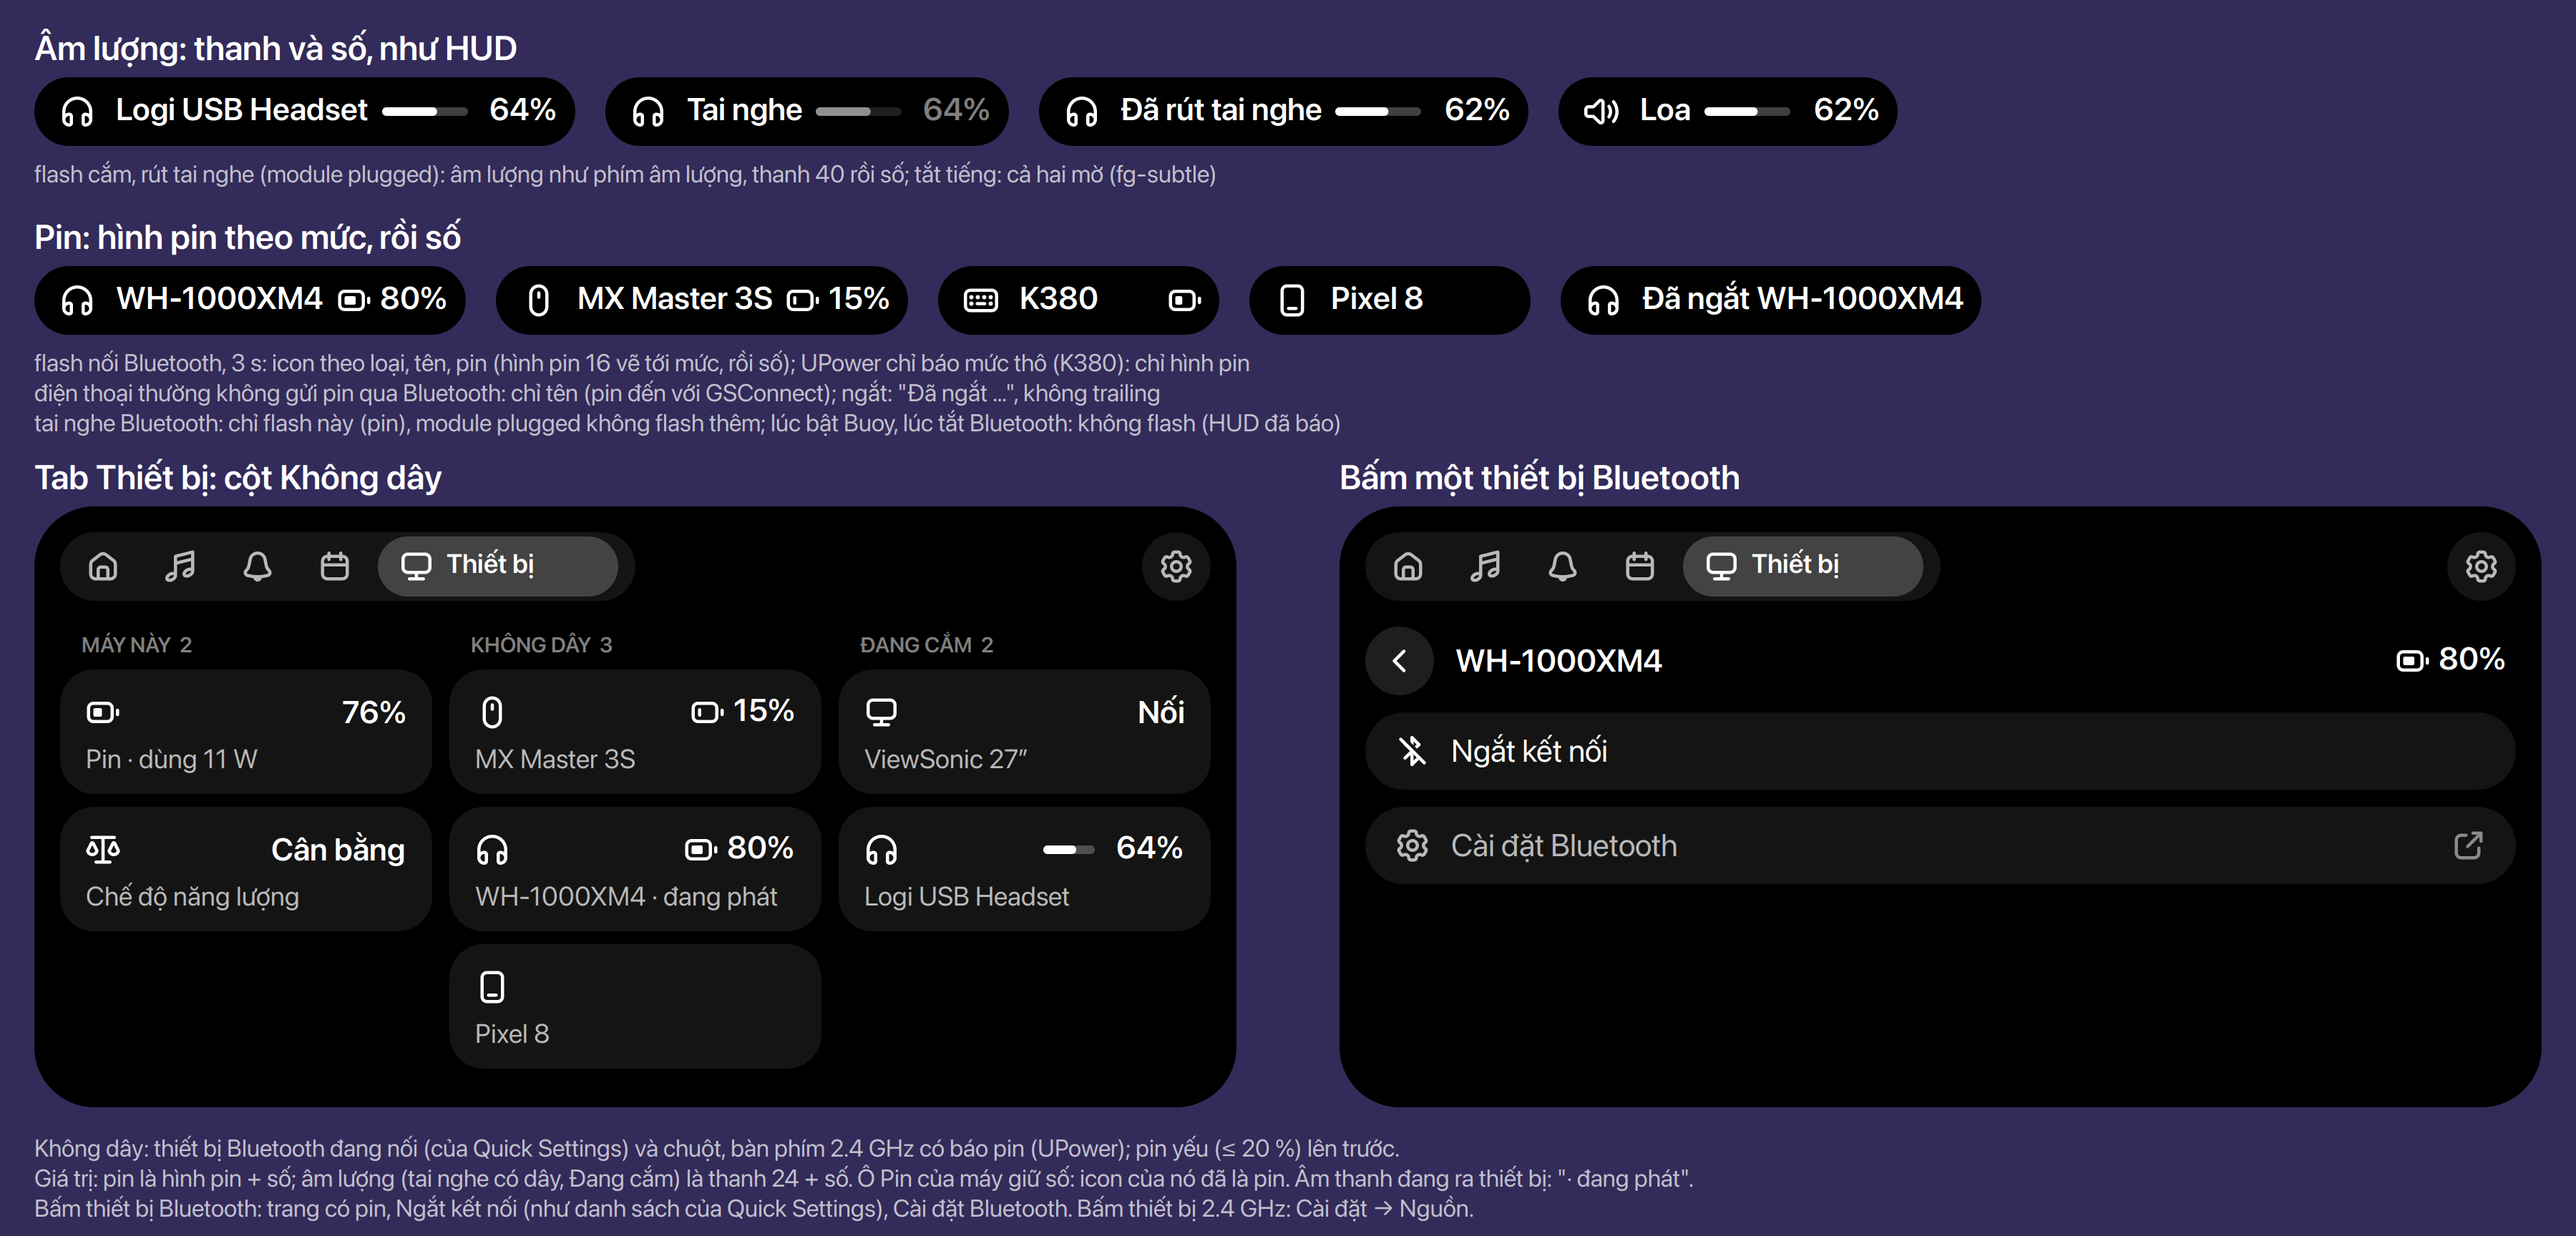
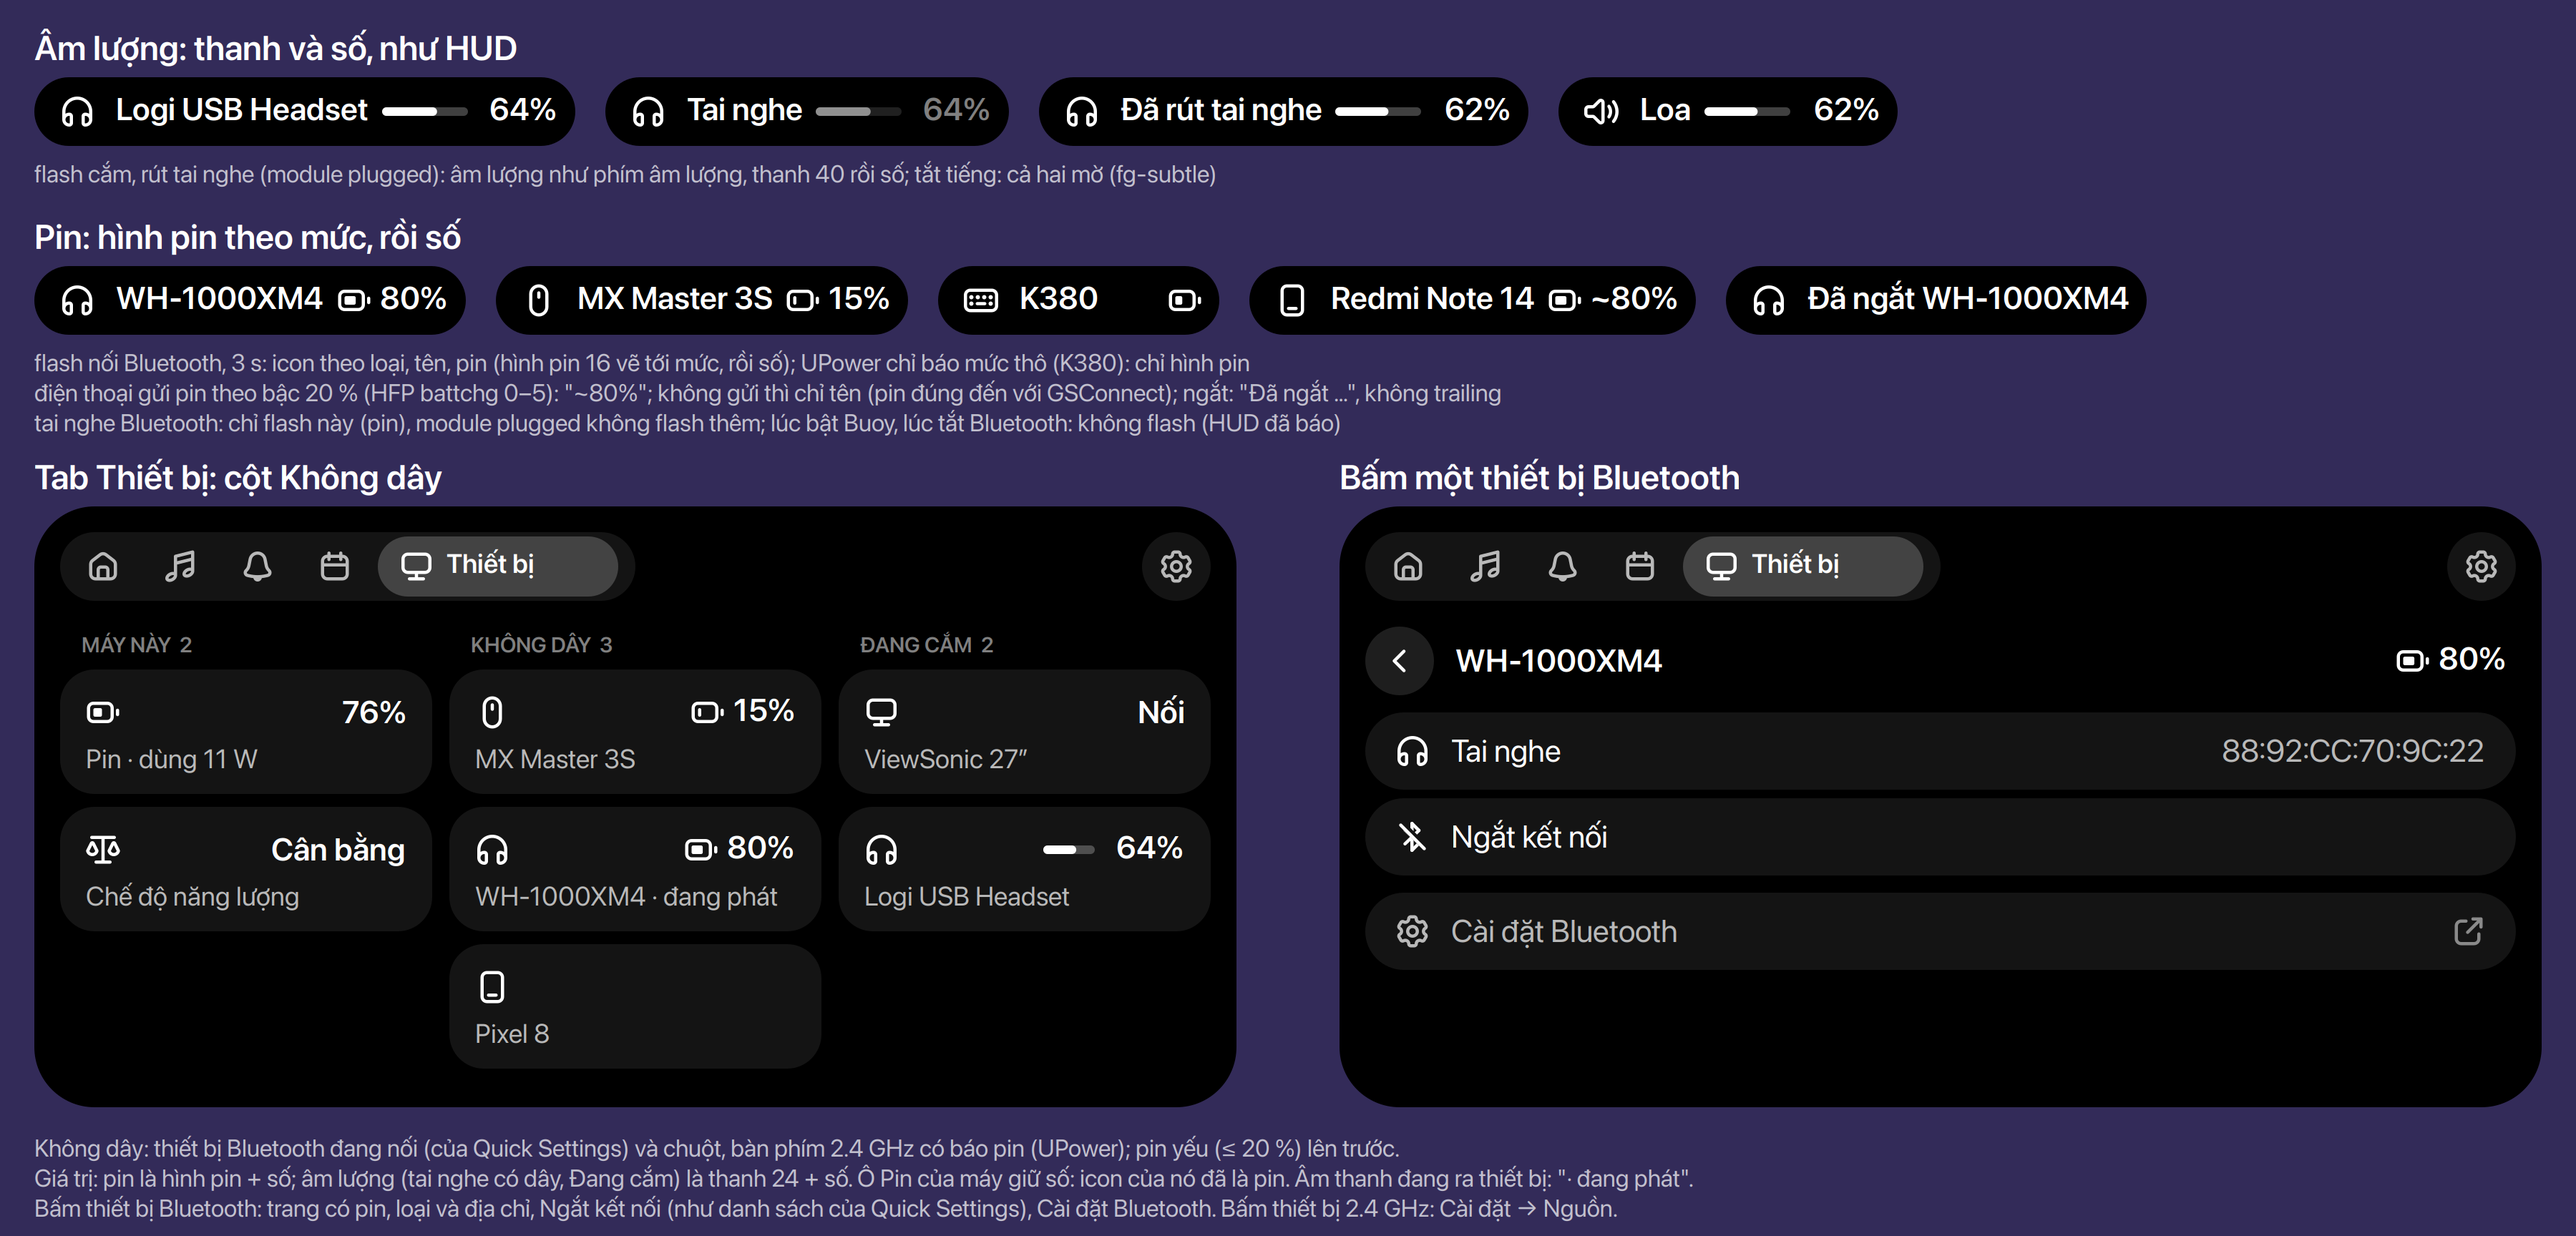
feat(bluetooth): a phone's battery said "~80%"
A phone tells its battery over HFP as the AG's battchg indicator, 0–5;
PipeWire reports value * 100 / 5 to BlueZ (spa/plugins/bluez5/backend-native.c
rfcomm_hfp_hf, 1.6.2) and BlueZ shows no source. A phone at 77 % says 80, so
its number is "~80%" (Ethan, 2026-11-17). bluetoothBattery() in
kit/model/bluetooth.js; tests in bluetooth.test.js. The overview image shows
the type and address row too.

Refs: FEATURES.md M4 "Bluetooth device"

diff --git a/docs/design/device/render/wireless.js b/docs/design/device/render/wireless.js
@@ -94,9 +94,9 @@ note('flash cắm, rút tai nghe (module plugged): âm lượng như phím âm l
 
 text('Pin: hình pin theo mức, rồi số', 16, 100, {sz: 12, wt: 600});
 row([['headphones', 'WH-1000XM4', bt(.8, '80%')], ['mouse', 'MX Master 3S', bt(.15, '15%')], ['keyboard', 'K380', bt(.5)],
-    ['smartphone', 'Pixel 8'], ['headphones', 'Đã ngắt WH-1000XM4']], 124);
+    ['smartphone', 'Redmi Note 14', bt(.8, '~80%')], ['headphones', 'Đã ngắt WH-1000XM4']], 124);
 note('flash nối Bluetooth, 3 s: icon theo loại, tên, pin (hình pin 16 vẽ tới mức, rồi số); UPower chỉ báo mức thô (K380): chỉ hình pin', 16, 162);
-note('điện thoại thường không gửi pin qua Bluetooth: chỉ tên (pin đến với GSConnect); ngắt: "Đã ngắt …", không trailing', 16, 176);
+note('điện thoại gửi pin theo bậc 20 % (HFP battchg 0–5): "~80%"; không gửi thì chỉ tên (pin đúng đến với GSConnect); ngắt: "Đã ngắt …", không trailing', 16, 176);
 note('tai nghe Bluetooth: chỉ flash này (pin), module plugged không flash thêm; lúc bật Buoy, lúc tắt Bluetooth: không flash (HUD đã báo)', 16, 190);
 
 // --- the Device tab ------------------------------------------------------------------------------
@@ -144,13 +144,16 @@ fill(C.FILL2, AX, ty + 56, 32, 32, 16); icon('chevron-left', AX + 8, ty + 64);
 text('WH-1000XM4', AX + 42, ty + 63, {wt: 600});
 battery(AX + AW - 4 - batteryW('80%'), ty + 72, .8, '80%');
 fill(C.FILL1, AX, ty + 96, AW, 36, 18);
-icon('bluetooth-slash', AX + 14, ty + 106, 16); text('Ngắt kết nối', AX + 40, ty + 105);
-fill(C.FILL1, AX, ty + 140, AW, 36, 18);
-icon('gear', AX + 14, ty + 150, 16, C.FG_MUTED); text('Cài đặt Bluetooth', AX + 40, ty + 149, {a: C.FG_MUTED});
-icon('arrow-up-right-from-square', AX + AW - 30, ty + 150, 16, C.FG_SUBTLE);
+icon('headphones', AX + 14, ty + 106, 16); text('Tai nghe', AX + 40, ty + 105);
+text('88:92:CC:70:9C:22', AX + AW - 14, ty + 105, {a: C.FG_MUTED, right: true});
+fill(C.FILL1, AX, ty + 136, AW, 36, 18);
+icon('bluetooth-slash', AX + 14, ty + 146, 16); text('Ngắt kết nối', AX + 40, ty + 145);
+fill(C.FILL1, AX, ty + 180, AW, 36, 18);
+icon('gear', AX + 14, ty + 190, 16, C.FG_MUTED); text('Cài đặt Bluetooth', AX + 40, ty + 189, {a: C.FG_MUTED});
+icon('arrow-up-right-from-square', AX + AW - 30, ty + 190, 16, C.FG_SUBTLE);
 
 const ny = ty + PH + 12;
 note('Không dây: thiết bị Bluetooth đang nối (của Quick Settings) và chuột, bàn phím 2.4 GHz có báo pin (UPower); pin yếu (≤ 20 %) lên trước.', 16, ny);
 note('Giá trị: pin là hình pin + số; âm lượng (tai nghe có dây, Đang cắm) là thanh 24 + số. Ô Pin của máy giữ số: icon của nó đã là pin. Âm thanh đang ra thiết bị: "· đang phát".', 16, ny + 14);
-note('Bấm thiết bị Bluetooth: trang có pin, Ngắt kết nối (như danh sách của Quick Settings), Cài đặt Bluetooth. Bấm thiết bị 2.4 GHz: Cài đặt → Nguồn.', 16, ny + 28);
+note('Bấm thiết bị Bluetooth: trang có pin, loại và địa chỉ, Ngắt kết nối (như danh sách của Quick Settings), Cài đặt Bluetooth. Bấm thiết bị 2.4 GHz: Cài đặt → Nguồn.', 16, ny + 28);
 surf.writeToPNG(out);

diff --git a/tests/bluetooth.test.js b/tests/bluetooth.test.js
@@ -1,6 +1,6 @@
 // Run: gjs -m tests/bluetooth.test.js   (pure: FEATURES M4 "Bluetooth device", design/device "Không dây")
 import {
-    BT_TYPE, LEVEL, UP_KIND, LOW, batteryOf, btKind, connectedOf, diffConnected, kindIcon, sortWireless, upKind, upowerOnly,
+    BATTERY_TYPE, BT_TYPE, LEVEL, UP_KIND, LOW, batteryOf, bluetoothBattery, btKind, connectedOf, diffConnected, kindIcon, sortWireless, upKind, upowerOnly,
 } from '../src/buoy@murilegus/lib/kit/model/bluetooth.js';
 import adapter, {TTL} from '../src/buoy@murilegus/lib/modules/bluetooth/adapter.js';
 import {validate, PRIORITY} from '../src/buoy@murilegus/lib/kit/model/activity.js';
@@ -37,6 +37,11 @@ eq([batteryOf({percentage: LOW}).low, batteryOf({percentage: LOW + 1}).low, batt
     [true, false, '100%', '80%'], 'battery: low at or under 20 %; clamped, rounded');
 eq([batteryOf({level: LEVEL.HIGH}), batteryOf({level: LEVEL.LOW}), batteryOf({level: LEVEL.CRITICAL}).low],
     [{value: 0.8, label: null, low: false}, {value: 0.2, label: null, low: true}, true], 'battery: a coarse level drawn, no number');
+eq([bluetoothBattery('phone', BATTERY_TYPE.PERCENTAGE, 80, 0), bluetoothBattery('headphones', BATTERY_TYPE.PERCENTAGE, 77, 0),
+    bluetoothBattery('mouse', BATTERY_TYPE.COARSE, 0, LEVEL.HIGH), bluetoothBattery('phone', BATTERY_TYPE.NONE, 0, 0)],
+[{percentage: 80, approx: true}, {percentage: 77}, {level: LEVEL.HIGH}, null],
+'bluetooth battery: a phone\'s in steps of 20 (HFP battchg 0–5, PipeWire backend-native.c), the rest as told');
+eq(batteryOf({percentage: 80, approx: true}), {value: 0.8, label: '~80%', low: false}, 'battery: a phone\'s said "~80%" (Ethan, 2026-11-17: 77 % on the phone)');
 eq([batteryOf(null), batteryOf({}), batteryOf({level: LEVEL.NONE}), batteryOf({percentage: NaN})], [null, null, null, null], 'battery: none told');
 
 // --- connected, came and went ---------------------------------------------------------------------
@@ -82,6 +87,8 @@ hp.onPress();
 eq(opened, 'gnome-bluetooth-panel.desktop', 'a click: Settings → Bluetooth');
 eq(planMinimal(build({what: 'connected', name: 'K380', kind: 'keyboard', battery: {level: LEVEL.NORMAL}})).trailing, {type: 'battery', value: 0.55},
     'connected: a coarse battery, no number');
+eq(planMinimal(build({what: 'connected', name: 'Redmi Note 14', kind: 'phone', battery: {percentage: 80, approx: true}})).trailing,
+    {type: 'battery', value: 0.8, label: '~80%'}, 'a phone telling its battery: "~80%"');
 const phone = build({what: 'connected', name: 'Pixel 8', kind: 'phone'});
 eq([planMinimal(phone).leading?.icon, phone.trailing], ['phone-symbolic', null], 'a phone: its name only (no battery over Bluetooth; GSConnect brings it)');
 const gone = build({what: 'disconnected', name: 'WH-1000XM4', kind: 'headphones', battery: {percentage: 80}});

diff --git a/src/buoy@murilegus/lib/kit/model/bluetooth.js b/src/buoy@murilegus/lib/kit/model/bluetooth.js
@@ -93,19 +93,42 @@ export function kindIcon(kind) {
 const COARSE = new Map([[LEVEL.CRITICAL, 0.05], [LEVEL.LOW, 0.2], [LEVEL.NORMAL, 0.55], [LEVEL.HIGH, 0.8], [LEVEL.FULL, 1]]);
 
 /**
- * @param {?{percentage?: ?number, level?: ?number}} b  a percentage, or UPower's coarse level
+ * @param {?{percentage?: ?number, level?: ?number, approx?: boolean}} b  a percentage, or UPower's
+ *   coarse level; `approx`: a percentage in steps (bluetoothBattery)
  * @returns {?{value: number, label: ?string, low: boolean}} the battery as drawn (0..1), its number
- *   ("80%"; none when told coarsely), low at or under LOW %; null when the device tells none
+ *   ("80%", "~80%" in steps; none when told coarsely), low at or under LOW %; null when the device
+ *   tells none
  */
 export function batteryOf(b) {
     if (typeof b?.percentage === 'number' && Number.isFinite(b.percentage)) {
         const p = Math.max(0, Math.min(100, Math.round(b.percentage)));
-        return {value: p / 100, label: `${p}%`, low: p <= LOW};
+        return {value: p / 100, label: b.approx === true ? `~${p}%` : `${p}%`, low: p <= LOW};
     }
     const v = COARSE.get(b?.level);
     if (v === undefined)
         return null;
     return {value: v, label: null, low: b.level === LEVEL.LOW || b.level === LEVEL.CRITICAL};
+}
+
+/**
+ * A Bluetooth device's battery as gnome-bluetooth hands it (`battery-type`, `-percentage`,
+ * `-level`). A phone's comes in steps of 20 %: it tells its battery over HFP as the AG's "battchg"
+ * indicator, 0–5, and PipeWire reports `value * 100 / 5` to BlueZ (spa/plugins/bluez5/
+ * backend-native.c rfcomm_hfp_hf, PipeWire 1.6.2) with no source BlueZ could show
+ * (Battery1.Source empty): a phone at 77 % says 80. Its number is "~80%" (Ethan, 2026-11-17).
+ *
+ * @param {string} kind  btKind()
+ * @param {number} type  BATTERY_TYPE
+ * @param {number} percentage
+ * @param {number} level  UPower's coarse level
+ * @returns {?{percentage?: number, level?: number, approx?: boolean}}
+ */
+export function bluetoothBattery(kind, type, percentage, level) {
+    if (type === BATTERY_TYPE.PERCENTAGE)
+        return kind === 'phone' ? {percentage, approx: true} : {percentage};
+    if (type === BATTERY_TYPE.COARSE)
+        return {level};
+    return null;
 }
 
 const nameOf = d => typeof d?.name === 'string' && d.name.trim() ? d.name.trim() : null;

diff --git a/src/buoy@murilegus/lib/kit/services/bluetooth.js b/src/buoy@murilegus/lib/kit/services/bluetooth.js
@@ -1,6 +1,6 @@
 import * as Main from 'resource:///org/gnome/shell/ui/main.js';
 
-import {BATTERY_TYPE, btKind} from '../model/bluetooth.js';
+import {bluetoothBattery, btKind} from '../model/bluetooth.js';
 
 /**
  * GNOME's Bluetooth client, reached through Quick Settings (FEATURES M4 "Bluetooth device"): Buoy
@@ -71,14 +71,11 @@ export function readBluetooth(client) {
         return [];
     const out = [];
     for (const d of client.getDevices()) {
-        let battery = null;
-        if (d.battery_type === BATTERY_TYPE.PERCENTAGE)
-            battery = {percentage: d.battery_percentage};
-        else if (d.battery_type === BATTERY_TYPE.COARSE)
-            battery = {level: d.battery_level};
+        const kind = btKind(d.type);
         out.push({
-            id: d.get_object_path(), name: d.alias || d.name || '', kind: btKind(d.type),
-            address: d.address ?? null, connected: d.connected === true, battery, bluetooth: true, device: d,
+            id: d.get_object_path(), name: d.alias || d.name || '', kind, address: d.address ?? null,
+            connected: d.connected === true, battery: bluetoothBattery(kind, d.battery_type, d.battery_percentage, d.battery_level),
+            bluetooth: true, device: d,
         });
     }
     return out;

diff --git a/src/buoy@murilegus/lib/modules/bluetooth/adapter.js b/src/buoy@murilegus/lib/modules/bluetooth/adapter.js
@@ -20,7 +20,8 @@ export default {
             return null;
         const name = typeof ev.name === 'string' && ev.name.trim() ? ev.name.trim() : 'Bluetooth device';
         const on = ev.what === 'connected';
-        // a phone rarely tells its battery over Bluetooth: its name only (GSConnect brings it)
+        // a phone tells its battery in steps ("~80%", model/bluetooth.js bluetoothBattery) or not at
+        // all: its name only then (GSConnect brings it)
         const b = on ? batteryOf(ev.battery) : null;
         return {
             leading: kindIcon(ev.kind),

diff --git a/docs/design/device/index.vi.md b/docs/design/device/index.vi.md
@@ -68,8 +68,11 @@ plugged, Bluetooth device, USB / phone / webcam plugged, Phone via GSConnect). S
   Bấm: Cài đặt → Bluetooth. **Chốt**
 - **Tai nghe Bluetooth**: chỉ flash này, kèm pin; module plugged không flash thêm (âm lượng vẫn do HUD
   báo khi đổi). Lúc nối, pin là điều cần biết; âm lượng vẫn là mức cũ. **Chốt**
-- **Điện thoại** qua Bluetooth thường không gửi pin: chỉ tên. Pin và tìm máy đến với "Phone via
-  GSConnect"; khi đó một máy có cả hai gộp thành một ô.
+- **Điện thoại** qua Bluetooth gửi pin theo **bậc 20 %**: chỉ số "battchg" 0–5 của HFP, PipeWire đổi
+  thành `giá trị × 100 / 5` (`spa/plugins/bluez5/backend-native.c` `rfcomm_hfp_hf`, PipeWire 1.6.2),
+  BlueZ không ghi nguồn (`Battery1.Source` trống). Máy 77 % thành 80, nên số ghi **"~80%"**; không gửi
+  thì chỉ tên. **Chốt** (Ethan, 2026-11-17) Pin đúng và tìm máy đến với "Phone via GSConnect"; khi đó
+  một máy có cả hai gộp thành một ô.
 - **Pin yếu** để thông báo của gsd ("Mouse battery low"), qua module notification như mọi thông báo.
 - **Cột Không dây**: thiết bị Bluetooth đang nối (danh sách của Quick Settings), rồi chuột, bàn phím
   2.4 GHz có báo pin (UPower; không phải thiết bị Bluetooth đã có). Pin yếu (≤ 20 %) lên trước.
